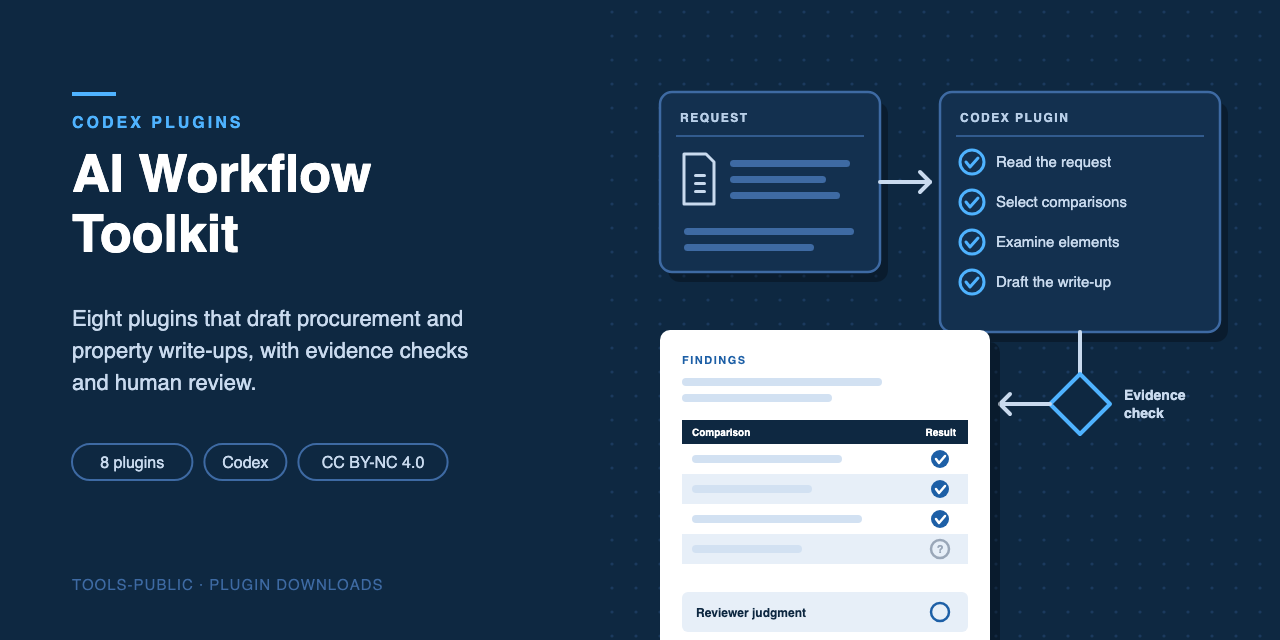
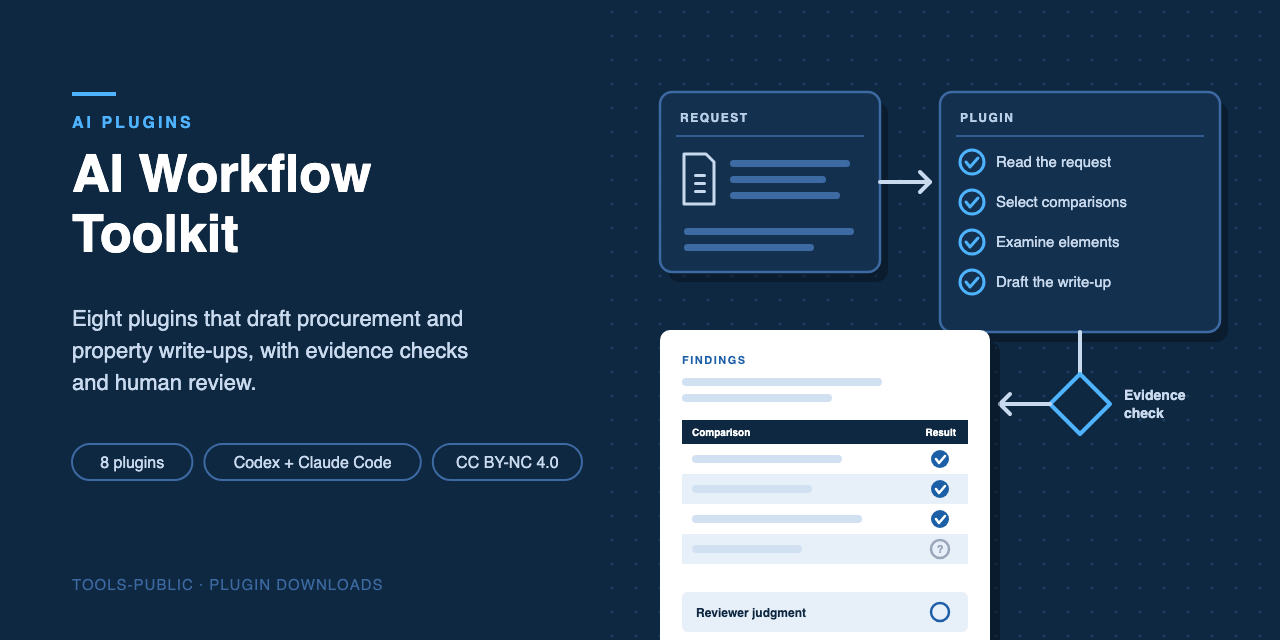
Use tool-neutral README and release graphics

Changed region(s): [[0.1875, 0.6875, 0.4375, 0.75], [0.0625, 0.1562, 0.1875, 0.2188], [0.75, 0.1562, 0.8438, 0.1875]]

diff --git a/README.md b/README.md
@@ -1,4 +1,4 @@
-<img src="docs/readme/readme_header.png" alt="Tools and Plugins: offline browser apps and Codex plugins for government property and procurement work." width="100%">
+<img src="docs/readme/readme_header.png" alt="Tools and Plugins: offline browser apps and AI plugins for government property and procurement work." width="100%">
 
 [My Portfolio](https://github.com/courtney-chapman/portfolio-public) shows the projects and demonstrations behind related tools. [Visual portfolio](https://courtneypetersonchapman.notion.site/) presents the same work in Notion.
 
